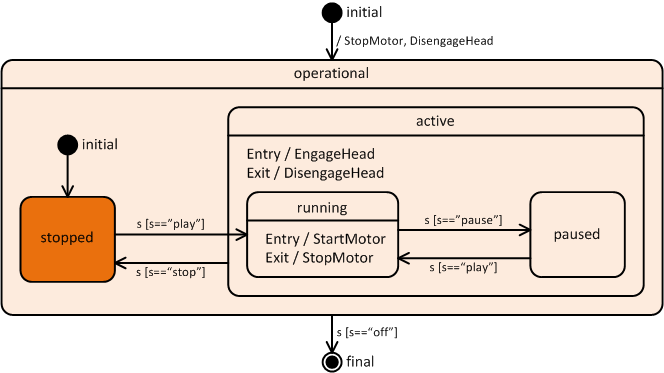
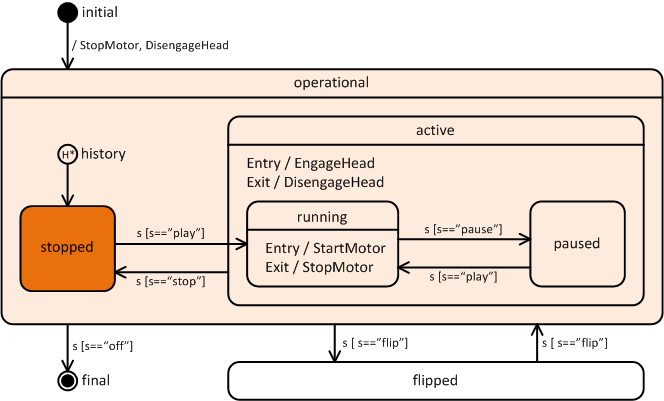
Updated example to show deep history

diff --git a/examples/test.html b/examples/test.html
@@ -7,24 +7,27 @@
 		<script>
 		
 			var running = { kind: State, name: "running", entry: [ StartMotor ], exit: [ StopMotor ]  };
-			var paused = { kind: State, name: "paused" };
+			var paused  = { kind: State, name: "paused" };
 			
-			var initial2 = { kind: Initial, name: "initial2" };
+			var history = { kind: DeepHistory, name: "history" };
 			var stopped = { kind: State, name: "stopped" };
-			var active = { kind: State, name: "active", children: [ running, paused ], entry: [ EngageHead ], exit: [ DisengageHead ] };
+			var active  = { kind: State, name: "active", children: [ running, paused ], entry: [ EngageHead ], exit: [ DisengageHead ] };
 
-			var initial1 = { kind: Initial, name: "initial1" };
-			var operational = { kind: State, name: "operational", children: [ initial2, stopped, active ] };
-			var finalState = { kind: Final, name: "final" };
+			var initial1    = { kind: Initial, name: "initial1" };
+			var operational = { kind: State, name: "operational", children: [ history, stopped, active ] };
+			var flipped     = { kind: State, name: "flipped" };
+			var finalState  = { kind: Final, name: "final" };
 			
-			controller = createStateMachine( { kind: Region, name: "player", children: [ initial1, operational, finalState ] },
-			                                [ { kind: Completion, source: initial1,    target: operational, effect: [ StopMotor, DisengageHead ] },
-			                                  { kind: Completion, source: initial2,    target: stopped },
-			                                  { kind: Transition, source: stopped,     target: running, guard: function( s ) { return ( s == 'play' ); } },
-			                                  { kind: Transition, source: active,      target: stopped, guard: function( s ) { return s == 'stop'; } },
-			                                  { kind: Transition, source: running,     target: paused, guard: function( s ) { return s == 'pause'; } },
-			                                  { kind: Transition, source: paused,      target: running, guard: function( s ) { return s == 'play'; } },
-			                                  { kind: Transition, source: operational, target: finalState, guard: function( s ) { return s == 'off'; } } ] );
+			controller = createStateMachine( { kind: Region, name: "player", children: [ initial1, operational, flipped, finalState ] },
+			                                 [ { kind: Completion, source: initial1,    target: operational, effect: [ StopMotor, DisengageHead ] },
+			                                   { kind: Completion, source: history,     target: stopped },
+			                                   { kind: Transition, source: stopped,     target: running,     guard: function( s ) { return s == 'play'; } },
+			                                   { kind: Transition, source: active,      target: stopped,     guard: function( s ) { return s == 'stop'; } },
+			                                   { kind: Transition, source: running,     target: paused,      guard: function( s ) { return s == 'pause'; } },
+			                                   { kind: Transition, source: paused,      target: running,     guard: function( s ) { return s == 'play'; } },
+			                                   { kind: Transition, source: operational, target: flipped,     guard: function( s ) { return s == 'flip'; } },
+			                                   { kind: Transition, source: flipped,     target: operational, guard: function( s ) { return s == 'flip'; } },
+			                                   { kind: Transition, source: operational, target: finalState,  guard: function( s ) { return s == 'off'; } } ] );
 
 			function EngageHead()
 			{
@@ -51,6 +54,7 @@
 			running.entry.push( function() { UpdateGraphic( "controller_running.png" ); } );
 			paused.entry = [ function() { UpdateGraphic( "controller_paused.png" ); } ];
 			operational.exit = [ function() { UpdateGraphic( "controller_final.png" ); } ];
+			flipped.entry = [ function() { UpdateGraphic( "controller_flipped.png" ); } ];
 			
 			function UpdateGraphic( uri )
 			{
@@ -63,10 +67,11 @@
 		<p>This example implements a simple controller for a cassette player according to the model below:</p>
 		<p><img id="diagram" /></p>
 		<p>Press the buttons below to send events to the controller (check brower console for trace output):</p>
-		<button type="button" onclick="controller.process( 'play' )">Play</button>
-		<button type="button" onclick="controller.process( 'pause' )">Pause</button>
-		<button type="button" onclick="controller.process( 'stop' )">Stop</button>
-		<button type="button" onclick="controller.process( 'off' )">Off</button>
+		<button type="button" onclick="controller.process( 'play' )">play</button>
+		<button type="button" onclick="controller.process( 'pause' )">pause</button>
+		<button type="button" onclick="controller.process( 'stop' )">stop</button>
+		<button type="button" onclick="controller.process( 'flip' )">flip</button>
+		<button type="button" onclick="controller.process( 'off' )">off</button>
 		<p id="head">Head: </p>
 		<p id="motor">Motor: </p>
 	</body>
